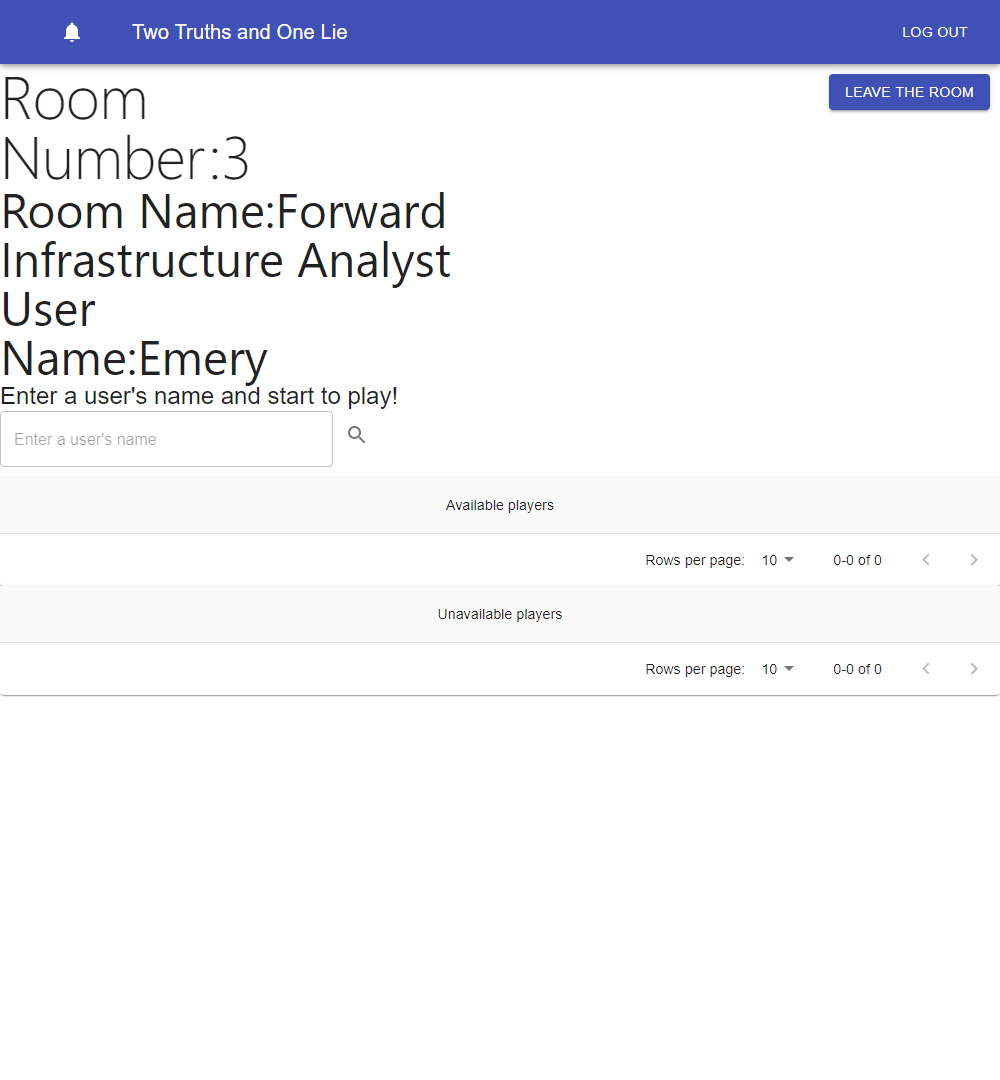
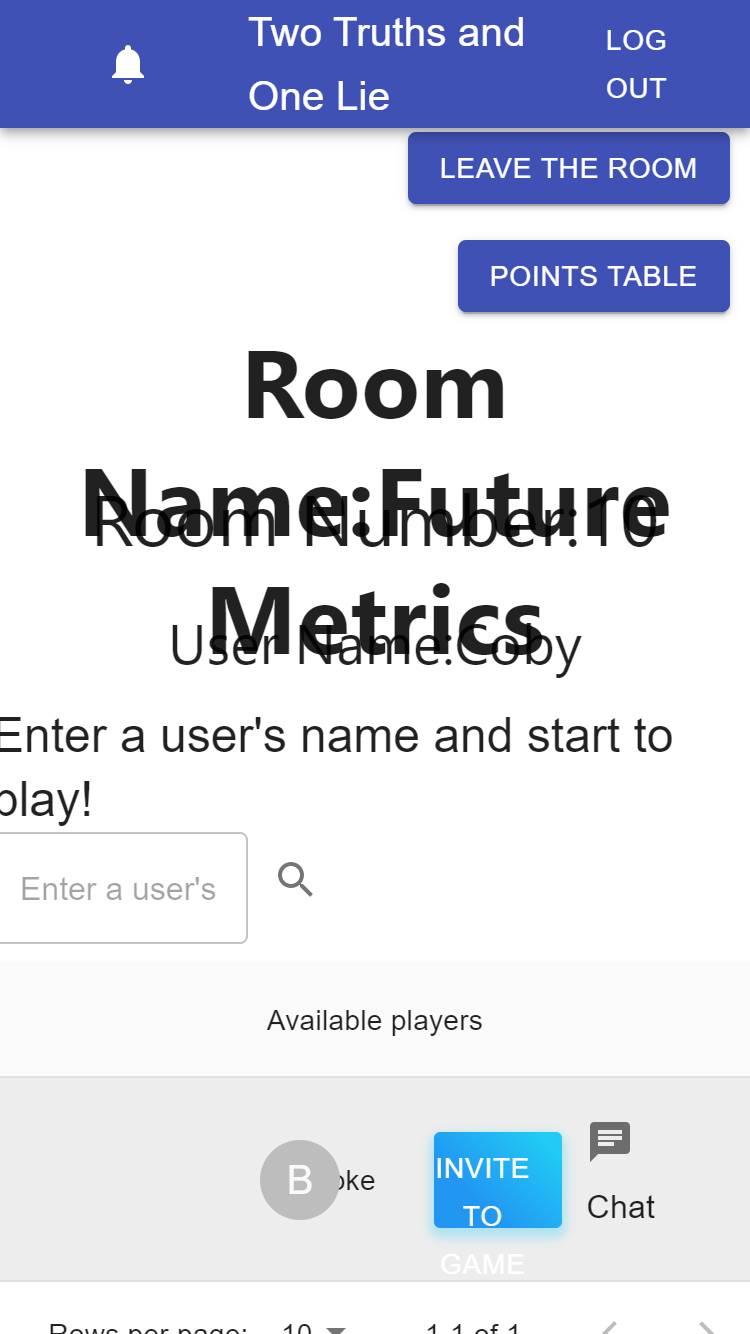
hgjvbk,m

diff --git a/src/pages/JoinGame.js b/src/pages/JoinGame.js
@@ -32,6 +32,7 @@ import clsx from 'clsx';
 import { getUserFromProps, getCurrentUserFromSession } from './../user.js';
 import { PrintChats, DisplayLoading } from './../PagesUtils.js'
 import { isUndefined, server } from './../Utils.js'
+import { Hidden } from '@material-ui/core';
 
 
 const okStatus = 200;
@@ -388,116 +389,119 @@ export function JoinGame(props) {
 
   return (
     <div id="joinGamePage">
+      <div className={classes.paper} >
+        <PrintAnswerPlayerDialog WindowOpen={GotInvitationWindow} setWindowOpen={setGotInvitationWindow} onAccept={onAccept} onDecline={onDecline} SenderInfoName={SenderInfoName} />
+        <Grid spacing={1} container>
 
-      <PrintAnswerPlayerDialog WindowOpen={GotInvitationWindow} setWindowOpen={setGotInvitationWindow} onAccept={onAccept} onDecline={onDecline} SenderInfoName={SenderInfoName} />
-      <Grid spacing={1} container>
-
-        <Grid spacing={1} item xs={12}>
-          <div style={{ float: 'right', marginRight: 10, marginTop: 10, }}>
-            <Button id="leaveRoomBTN" variant="contained" color="primary" onClick={leaveRoom} className={classes.button}>
-              Leave the room
+          <Grid spacing={1} item xs={12}>
+            <div style={{ float: 'right', marginRight: 10, marginTop: 10, }}>
+              <Button id="leaveRoomBTN" variant="contained" color="primary" onClick={leaveRoom} className={classes.button}>
+                Leave the room
       </Button>
-          </div>
-        </Grid>
-      <Grid spacing={1} item xs = {12}>
-      <div style={{ float: 'right', marginRight: 10, marginTop: 10, }}>
-      <Button id="pointsTableBTN" variant="contained" color="primary" className={classes.button}
-        onClick={()=>{history.push({
-          pathname: '/PointsTable',
-          roomId: CurrentRoom.room_id,
-        })}}
-        >
-          POINTS TABLE
+            </div>
+          </Grid>
+          <Grid spacing={1} item xs={12}>
+            <div style={{ float: 'right', marginRight: 10, marginTop: 10, }}>
+              <Button id="pointsTableBTN" variant="contained" color="primary" className={classes.button}
+                onClick={() => {
+                  history.push({
+                    pathname: '/PointsTable',
+                    roomId: CurrentRoom.room_id,
+                  })
+                }}
+              >
+                POINTS TABLE
       </Button>
-      </div>      
-      </Grid>
-
-        <Grid item spacing={1} xs={12} justify="center">
-          <div style={{ textAlign: 'center' }}>
-            <Typography id="roomNameHeader" variant="h3" className={classes.title}>
-              Room Name:
+            </div>
+          </Grid>
+          <Grid container spacing={2} padding={20} alignItems="stretch" justify="center">
+            <Grid item numberoflines={3} spacing={1} xs={12} padding={20} justify="center">
+              <div style={{ textAlign: 'center', overflow:'hidden'}}>
+                <Typography id="roomNameHeader" variant="h4" className={classes.title}>
+                  Room Name:
       {CurrentRoom.room_name}
-            </Typography>
-          </div>
-        </Grid>
+                </Typography>
+              </div>
+            </Grid>
 
 
-        <Grid item spacing={1} xs={12} justify="center">
-          <div style={{ textAlign: 'center' }}>
-            <Typography id="roomNumberHeader" variant="h4" className={classes.roomNumber}>
-              Room Number:
+            <Grid item spacing={1} padding={20} xs={12} justify="center">
+              <div style={{ textAlign: 'center' }}>
+                <Typography id="roomNumberHeader" variant="h4" className={classes.roomNumber}>
+                  Room Number:
      {CurrentRoom.room_id}
-            </Typography>
-          </div>
-        </Grid>
+                </Typography>
+              </div>
+            </Grid>
 
 
-        <Grid item spacing={1} xs={12} justify="center">
-          <div style={{ textAlign: 'center' }}>
-            <Typography id="userNameHeader" justify="center" variant="h5" className={classes.userTitle}>
-              User Name:
+            <Grid item spacing={1} xs={12} justify="center">
+              <div style={{ textAlign: 'center' }}>
+                <Typography id="userNameHeader" justify="center" variant="h5" className={classes.userTitle}>
+                  User Name:
       {CurrentUser.nickName}
-            </Typography>
-          </div>
-        </Grid>
-      </Grid>
+                </Typography>
+              </div>
+            </Grid>
+          </Grid>
 
-      {/* 
+          {/* 
       <Grid container spacing={3} justify="center">
         <HomepageImage />
       </Grid> */}
 
 
-      {/* ******************************************************************************************** */}
+          {/* ******************************************************************************************** */}
 
-      {/* <Grid container spacing={3} justify="center"> */}
-      <div component="form" className={fixedHeightPaper}>
-        <Grid container>
-          <Grid item xs={12}>
-            <Typography component="h8" variant="h5">
-              Enter a user's name and start to play!
+          {/* <Grid container spacing={3} justify="center"> */}
+          <div component="form" className={fixedHeightPaper}>
+            <Grid container>
+              <Grid item xs={12}>
+                <Typography component="h8" variant="h5">
+                  Enter a user's name and start to play!
                     </Typography>
-          </Grid>
-          <Grid item xs={4}>
-            <TextField
-              className={classes.input}
-              placeholder="Enter a user's name"
-              fullWidth
-              variant="outlined"
-              helperText={helperText}
-              id="nickname"
-              name="nickname"
-              autoComplete="nickname"
-              onKeyPress={(ev) => {
-                if (ev.key === 'Enter') {
-                  handleClickSearch(ev);
-                }
-              }
-              }
-              onChange={(event) => {
-                setInputName(event.target.value);
-              }}
-            />
-          </Grid>
-          <Grid item xs={2}>
-            <IconButton /*type="submit"*/ className={classes.iconButton} onClick={handleClickSearch} aria-label="search">
-              <SearchIcon />
-            </IconButton>
-          </Grid>
+              </Grid>
+              <Grid item xs={4}>
+                <TextField
+                  className={classes.input}
+                  placeholder="Enter a user's name"
+                  fullWidth
+                  variant="outlined"
+                  helperText={helperText}
+                  id="nickname"
+                  name="nickname"
+                  autoComplete="nickname"
+                  onKeyPress={(ev) => {
+                    if (ev.key === 'Enter') {
+                      handleClickSearch(ev);
+                    }
+                  }
+                  }
+                  onChange={(event) => {
+                    setInputName(event.target.value);
+                  }}
+                />
+              </Grid>
+              <Grid item xs={2}>
+                <IconButton /*type="submit"*/ className={classes.iconButton} onClick={handleClickSearch} aria-label="search">
+                  <SearchIcon />
+                </IconButton>
+              </Grid>
+            </Grid>
+
+          </div>
+
+          {/* </Grid> */}
+
+
+          {/* ******************************************************************************************** */}
+
+          <PlayerListAvailable type={"Available"} PlayersAvailable={PlayersList.PlayersAvailable} CurrentUser={CurrentUser} />
+
+          <PlayerListUnAvailable type={"Unavailable"} PlayersUnAvailable={PlayersList.PlayersUnAvailable} />
         </Grid>
 
       </div>
-
-      {/* </Grid> */}
-
-
-      {/* ******************************************************************************************** */}
-
-      <PlayerListAvailable type={"Available"} PlayersAvailable={PlayersList.PlayersAvailable} CurrentUser={CurrentUser} />
-
-      <PlayerListUnAvailable type={"Unavailable"} PlayersUnAvailable={PlayersList.PlayersUnAvailable} />
-
-
     </div>
 
   );

diff --git a/src/pages/LoginScreenHome.js b/src/pages/LoginScreenHome.js
@@ -272,6 +272,11 @@ function PrintCreateGameDialog(props) {
       setNickNameHelperText('Please provide a nick name');
       isValid = false;
     }
+    if(gameName.length >= 20){
+      setRoomNameError(true);
+      setRoomNameHelperText('Please provide a shorter room name');
+      isValid = false;
+    }
     return isValid;
   }
 
